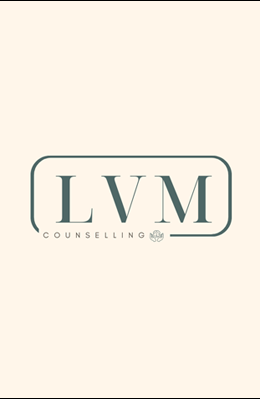
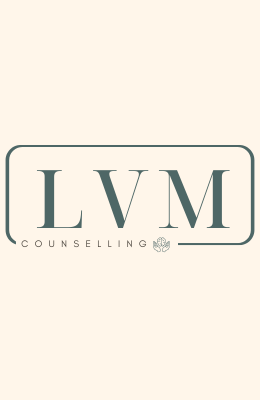
add new project and update pictures

Changed region(s): [[0.0, 0.36, 0.9846, 0.63], [0.0, 0.99, 1.0, 1.0]]

diff --git a/src/components/Projects.jsx b/src/components/Projects.jsx
@@ -7,6 +7,8 @@ import closetAppImgLandscape from "../assets/closet-app-landscape.png";
 import snapchatBgLandscape from "../assets/snapchat-landscape.png";
 import lvmLogoLong from "../assets/lvm-bg.png";
 import lvmLandscape from "../assets/lvm-landscape.png";
+import articleLogoLandscape from "../assets/articlesLogoLandscape.png";
+import articleLogo from "../assets/articlesLogo.png";
 function Projects() {
   const projectData = [
     {
@@ -16,6 +18,14 @@ function Projects() {
       imgLandscape: lvmLandscape,
       alt: "lvm_counselling_image",
       github: "https://github.com/nitinm96/LVM-Counselling",
+    },    
+    {
+      title: "News Article Application",
+      description: "News Article Application provides users with real time news articles and allowing users to favorite and view articles with a clean responsive layout.",
+      img: articleLogo,
+      imgLandscape: articleLogoLandscape,
+      alt: "news_article_image",
+      github: "https://github.com/nitinm96/news-article",
     },
     {
       title: "Closet Application",

diff --git a/src/components/Weather.jsx b/src/components/Weather.jsx
@@ -107,9 +107,7 @@ function Weather() {
             <span className="">
               {/* <img src="https://openweathermap.org/img/wn/04d@2x.png" width={50}/>         */}
               <img
-                src={`https://openweathermap.org/img/wn/${
-                  weatherData && weatherData.current.weather[0].icon
-                }@2x.png`}
+                src={`https://openweathermap.org/img/wn/${weatherData && weatherData.current.weather[0].icon}@2x.png`}
                 width={60}
                 height={50}
                 alt="weather-icon"
